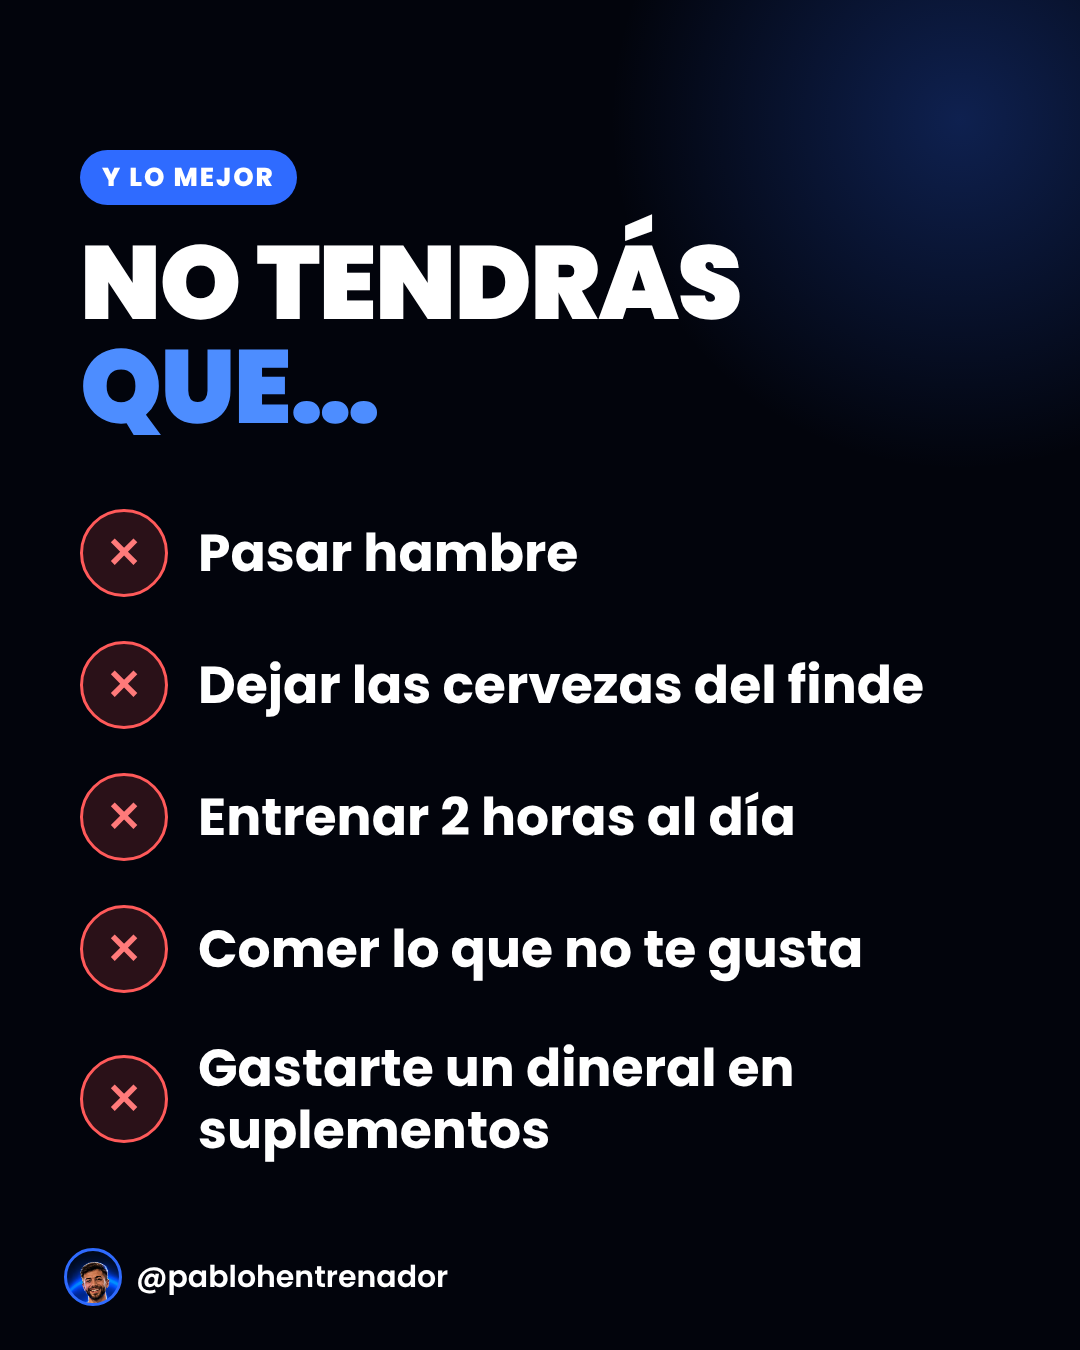
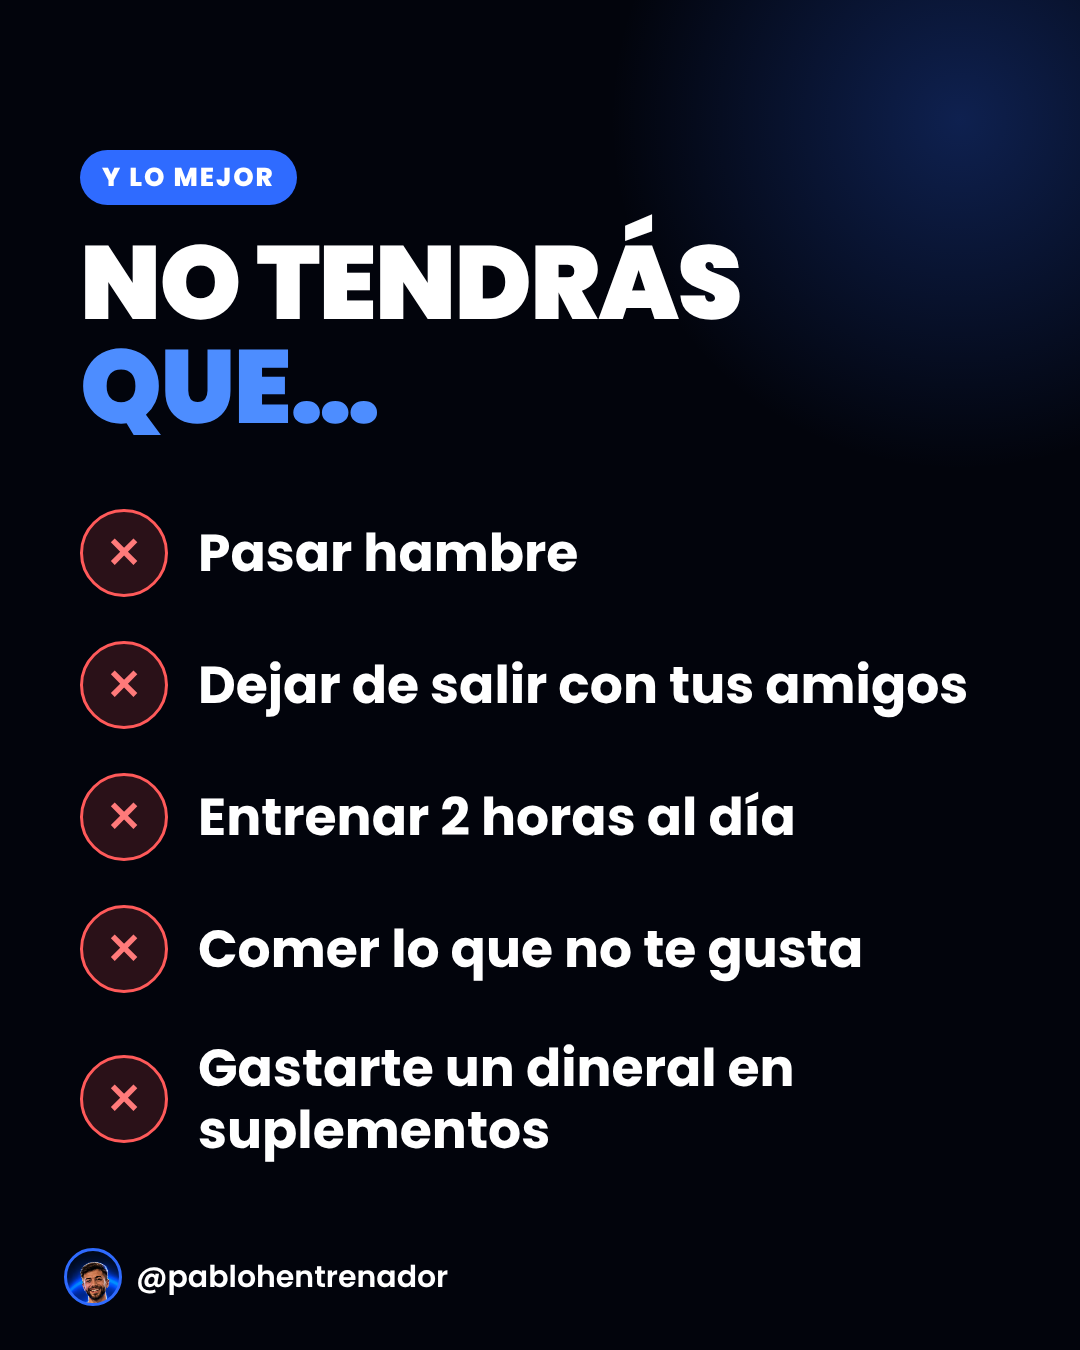
Carrusel 'Así trabajo': ajusta textos de seguimiento y 'no tendrás que'
Claude-Session: https://claude.ai/code/session_015PfrwJnF2wsp656kSpm277

Changed region(s): [[0.3361, 0.4667, 0.9167, 0.5289]]

diff --git a/carrusel-pablo/como-trabajo/carrusel.html b/carrusel-pablo/como-trabajo/carrusel.html
@@ -93,7 +93,7 @@ h2{font-size:104px}
     <div class="step"><div class="em">📞</div><div><h3>Valoración</h3><p>Llamada para ver tu caso y si te puedo ayudar</p></div></div>
     <div class="step"><div class="em">📋</div><div><h3>Tu plan</h3><p>Entreno y dieta hechos para tu vida</p></div></div>
     <div class="step"><div class="em">🎥</div><div><h3>Técnica</h3><p>Me mandas vídeos y te corrijo cada semana</p></div></div>
-    <div class="step hl"><div class="em">💬</div><div><h3>Seguimiento</h3><p>WhatsApp directo conmigo. Si desapareces, te escribo yo</p></div></div>
+    <div class="step hl"><div class="em">💬</div><div><h3>Seguimiento</h3><p>WhatsApp directo conmigo. Si desapareces unos días, te escribo yo</p></div></div>
     <div class="step"><div class="em">📈</div><div><h3>Revisión mensual</h3><p>Videollamada: medidas, fotos y ajustes</p></div></div>
   </div>
 </div>
@@ -105,7 +105,7 @@ h2{font-size:104px}
   <h2>No tendrás <span class="b">que…</span></h2>
   <div class="list">
     <div class="li"><div class="ic">✕</div>Pasar hambre</div>
-    <div class="li"><div class="ic">✕</div>Dejar las cervezas del finde</div>
+    <div class="li"><div class="ic">✕</div>Dejar de salir con tus amigos</div>
     <div class="li"><div class="ic">✕</div>Entrenar 2 horas al día</div>
     <div class="li"><div class="ic">✕</div>Comer lo que no te gusta</div>
     <div class="li"><div class="ic">✕</div>Gastarte un dineral en suplementos</div>
